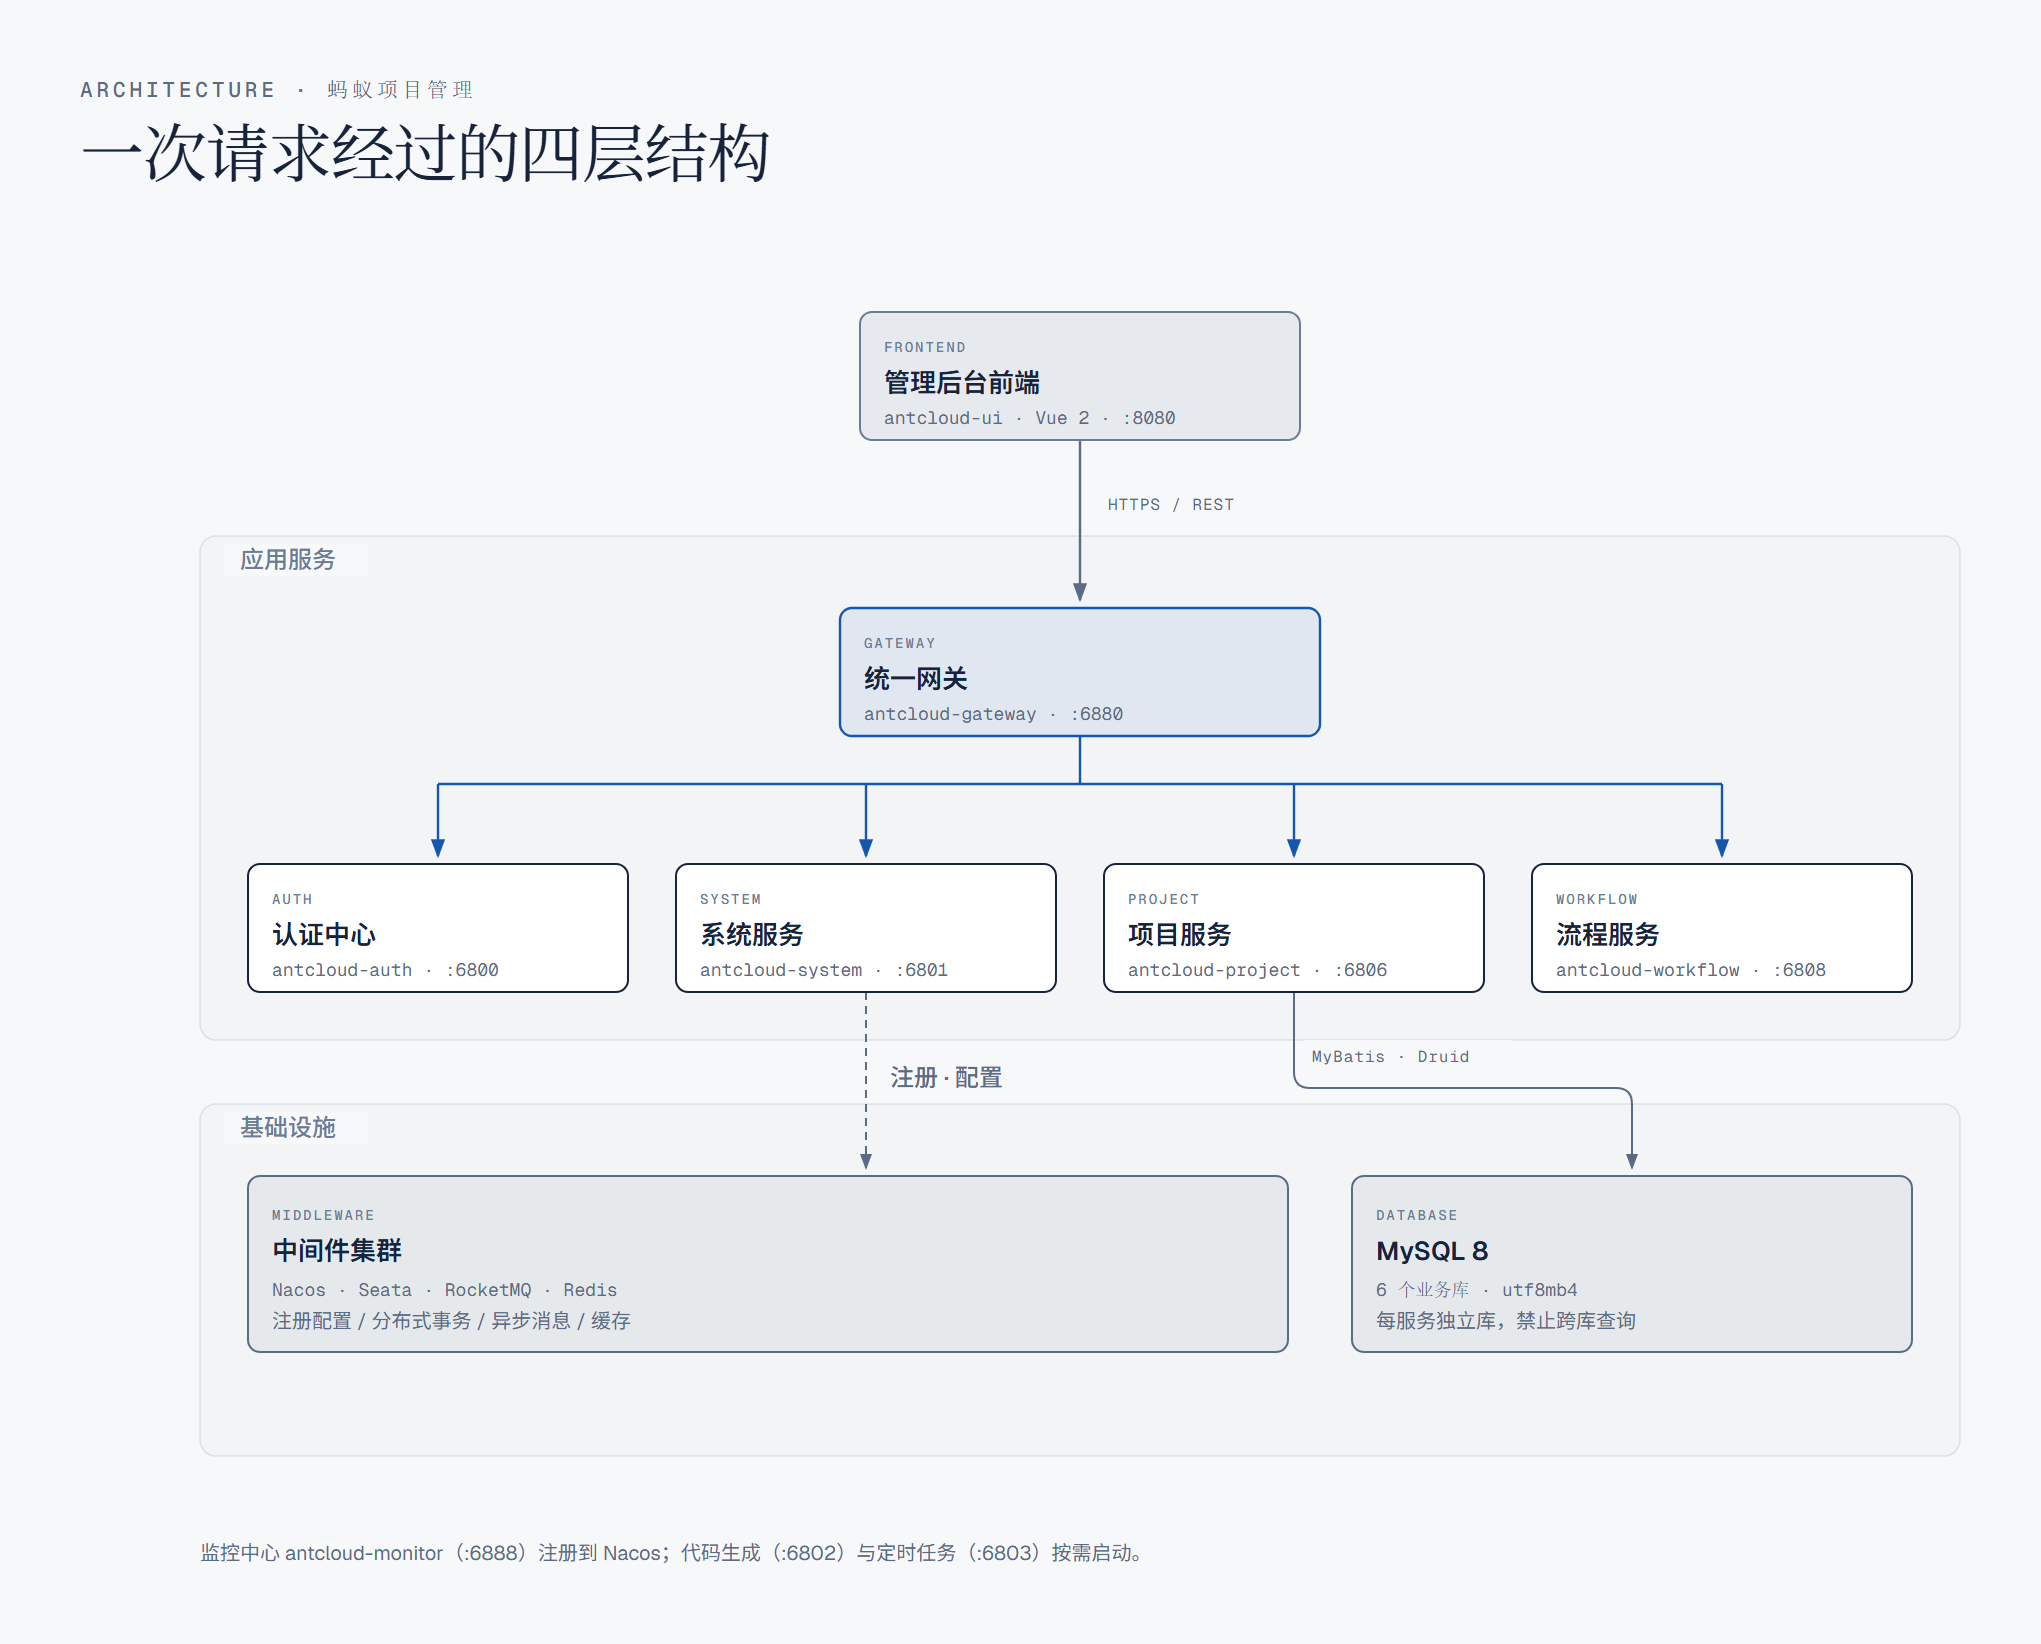
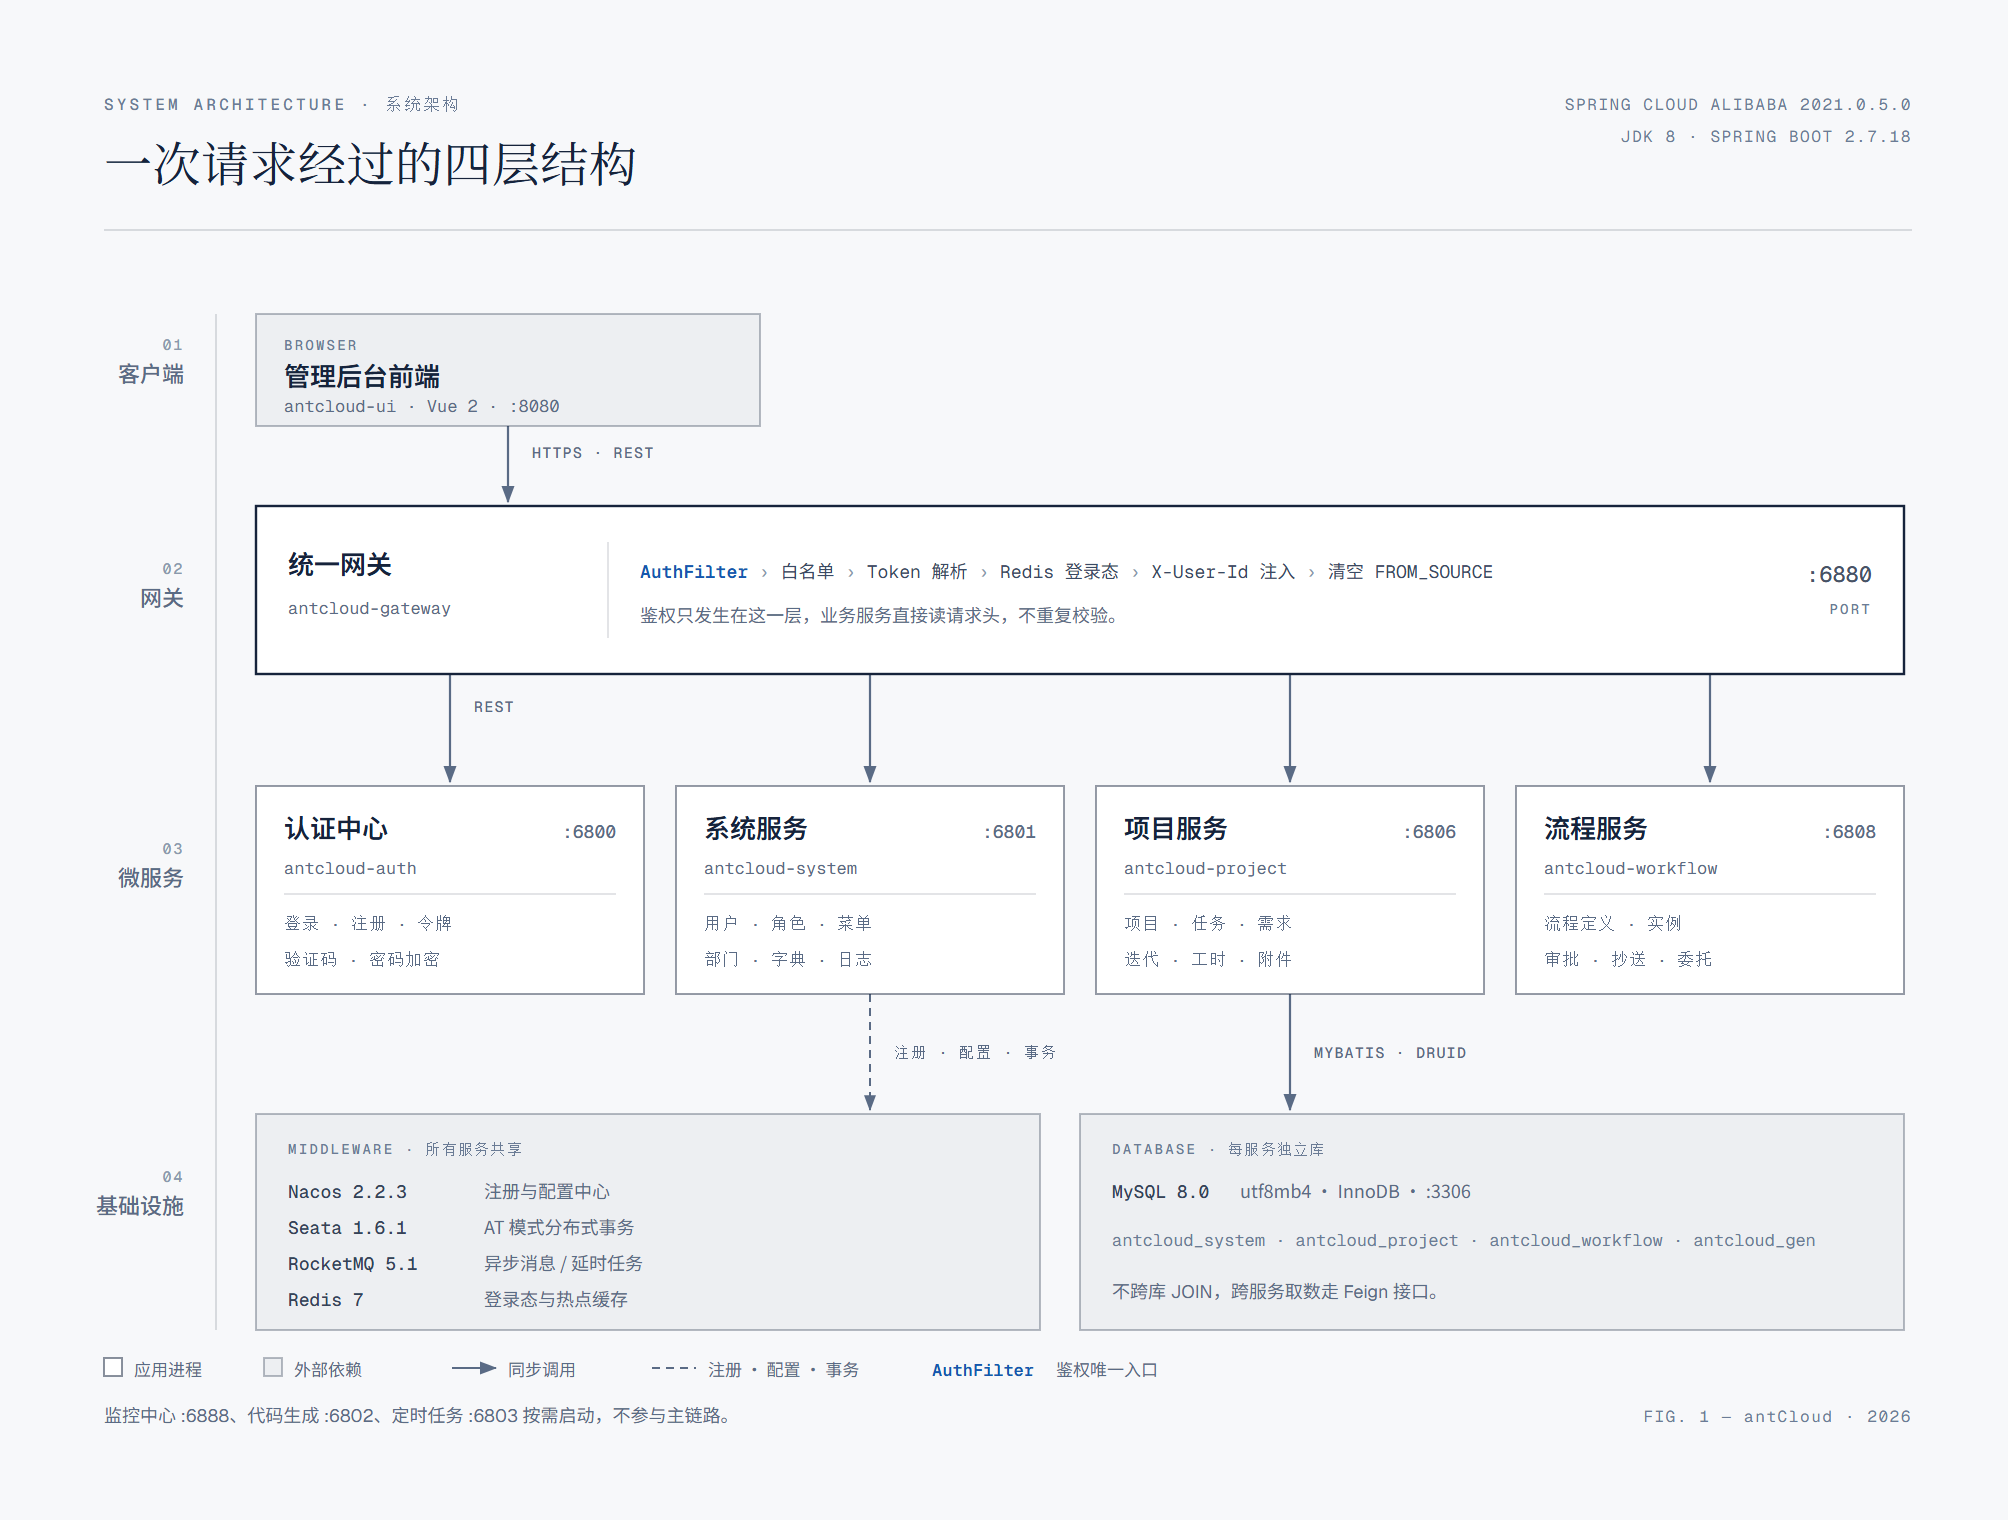
生成预览

diff --git a/README.md b/README.md
@@ -44,7 +44,8 @@
 
 ### 2.1 系统架构
 
-![系统架构图](docs/images/antcloud-architecture.png)
+在antCloud中，系统架构图展示了整个系统的架构设计。整体项目包括了系统、认证、项目、代码生成、流程及网关服务。
+![架构图](docs/images/framework.png)
 
 一次请求的完整路径：
 
@@ -55,12 +56,11 @@
 5. 跨服务调用走 OpenFeign（接口定义集中在 `antcloud-api`），需要保证一致性的写操作由 Seata AT 模式接管，异步通知走 RocketMQ。
 
 > 代码生成（:6802）、定时任务（:6803）、监控中心（:6888）按需启动，不影响主链路。
+![系统架构图](docs/images/antcloud-architecture.png)
 
 ### 2.2 技术选型
 
-![技术选型图](docs/images/antcloud-tech-stack.png)
-
-每一层的取舍：
+![技术选型图](docs/images/xuanxing.png)
 
 | 层 | 选择 | 为什么 |
 | --- | --- | --- |
